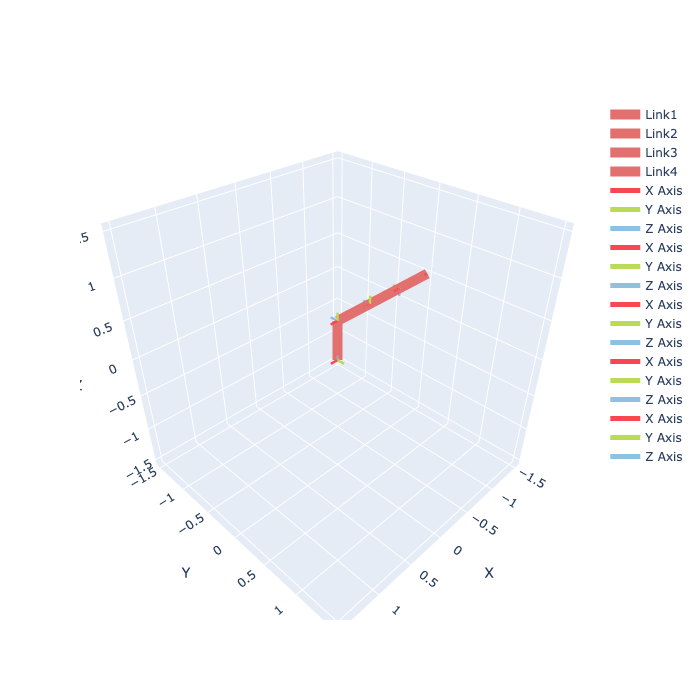
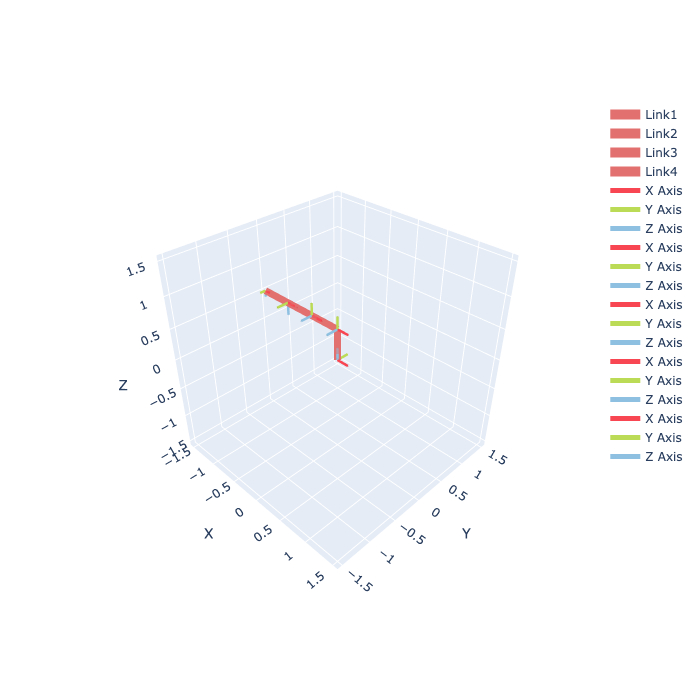
fix: plotly better visualisation

diff --git a/build/lib/robosandbox/visualization/plotly_robot.py b/build/lib/robosandbox/visualization/plotly_robot.py
@@ -29,14 +29,14 @@ class PlotlyRobot:
                     y=self.joint_positions[i - 1 : i + 1, 1],
                     z=self.joint_positions[i - 1 : i + 1, 2],
                     mode="lines",
-                    line=dict(color="#E1706E", width=20),
+                    line=dict(color="#E1706E", width=14),
                     name=f"Link{i}",
                 )
             )
 
         # find the distance from last tf to the origin
         max_distance = np.linalg.norm(self.tfs[-1].t)
-        axis_length = round(max_distance / 15, 1)  # Uniform length for all axes
+        axis_length = round(max_distance / 10, 1)  # Uniform length for all axes
         arrow_length = axis_length / 10  # Length of the arrowhead
 
         # Adding axes at each joint
@@ -93,6 +93,11 @@ class PlotlyRobot:
         fig.update_layout(
             scene=dict(
                 aspectmode="cube",
+                camera=dict(
+                    eye=dict(x=max_distance, y=-max_distance, z=max_distance),  # Position of the camera
+                    center=dict(x=0, y=0, z=0),      # Point the camera is looking at
+                    up=dict(x=0, y=0, z=1)            # Up vector direction
+                ),
                 xaxis=dict(nticks=10, range=[-max_distance, max_distance]),
                 yaxis=dict(nticks=10, range=[-max_distance, max_distance]),
                 zaxis=dict(nticks=10, range=[-max_distance, max_distance]),

diff --git a/robosandbox/visualization/plotly_robot.py b/robosandbox/visualization/plotly_robot.py
@@ -29,14 +29,14 @@ class PlotlyRobot:
                     y=self.joint_positions[i - 1 : i + 1, 1],
                     z=self.joint_positions[i - 1 : i + 1, 2],
                     mode="lines",
-                    line=dict(color="#E1706E", width=20),
+                    line=dict(color="#E1706E", width=14),
                     name=f"Link{i}",
                 )
             )
 
         # find the distance from last tf to the origin
         max_distance = np.linalg.norm(self.tfs[-1].t)
-        axis_length = round(max_distance / 15, 1)  # Uniform length for all axes
+        axis_length = round(max_distance / 10, 1)  # Uniform length for all axes
         arrow_length = axis_length / 10  # Length of the arrowhead
 
         # Adding axes at each joint
@@ -93,6 +93,11 @@ class PlotlyRobot:
         fig.update_layout(
             scene=dict(
                 aspectmode="cube",
+                camera=dict(
+                    eye=dict(x=max_distance, y=-max_distance, z=max_distance),  # Position of the camera
+                    center=dict(x=0, y=0, z=0),      # Point the camera is looking at
+                    up=dict(x=0, y=0, z=1)            # Up vector direction
+                ),
                 xaxis=dict(nticks=10, range=[-max_distance, max_distance]),
                 yaxis=dict(nticks=10, range=[-max_distance, max_distance]),
                 zaxis=dict(nticks=10, range=[-max_distance, max_distance]),
